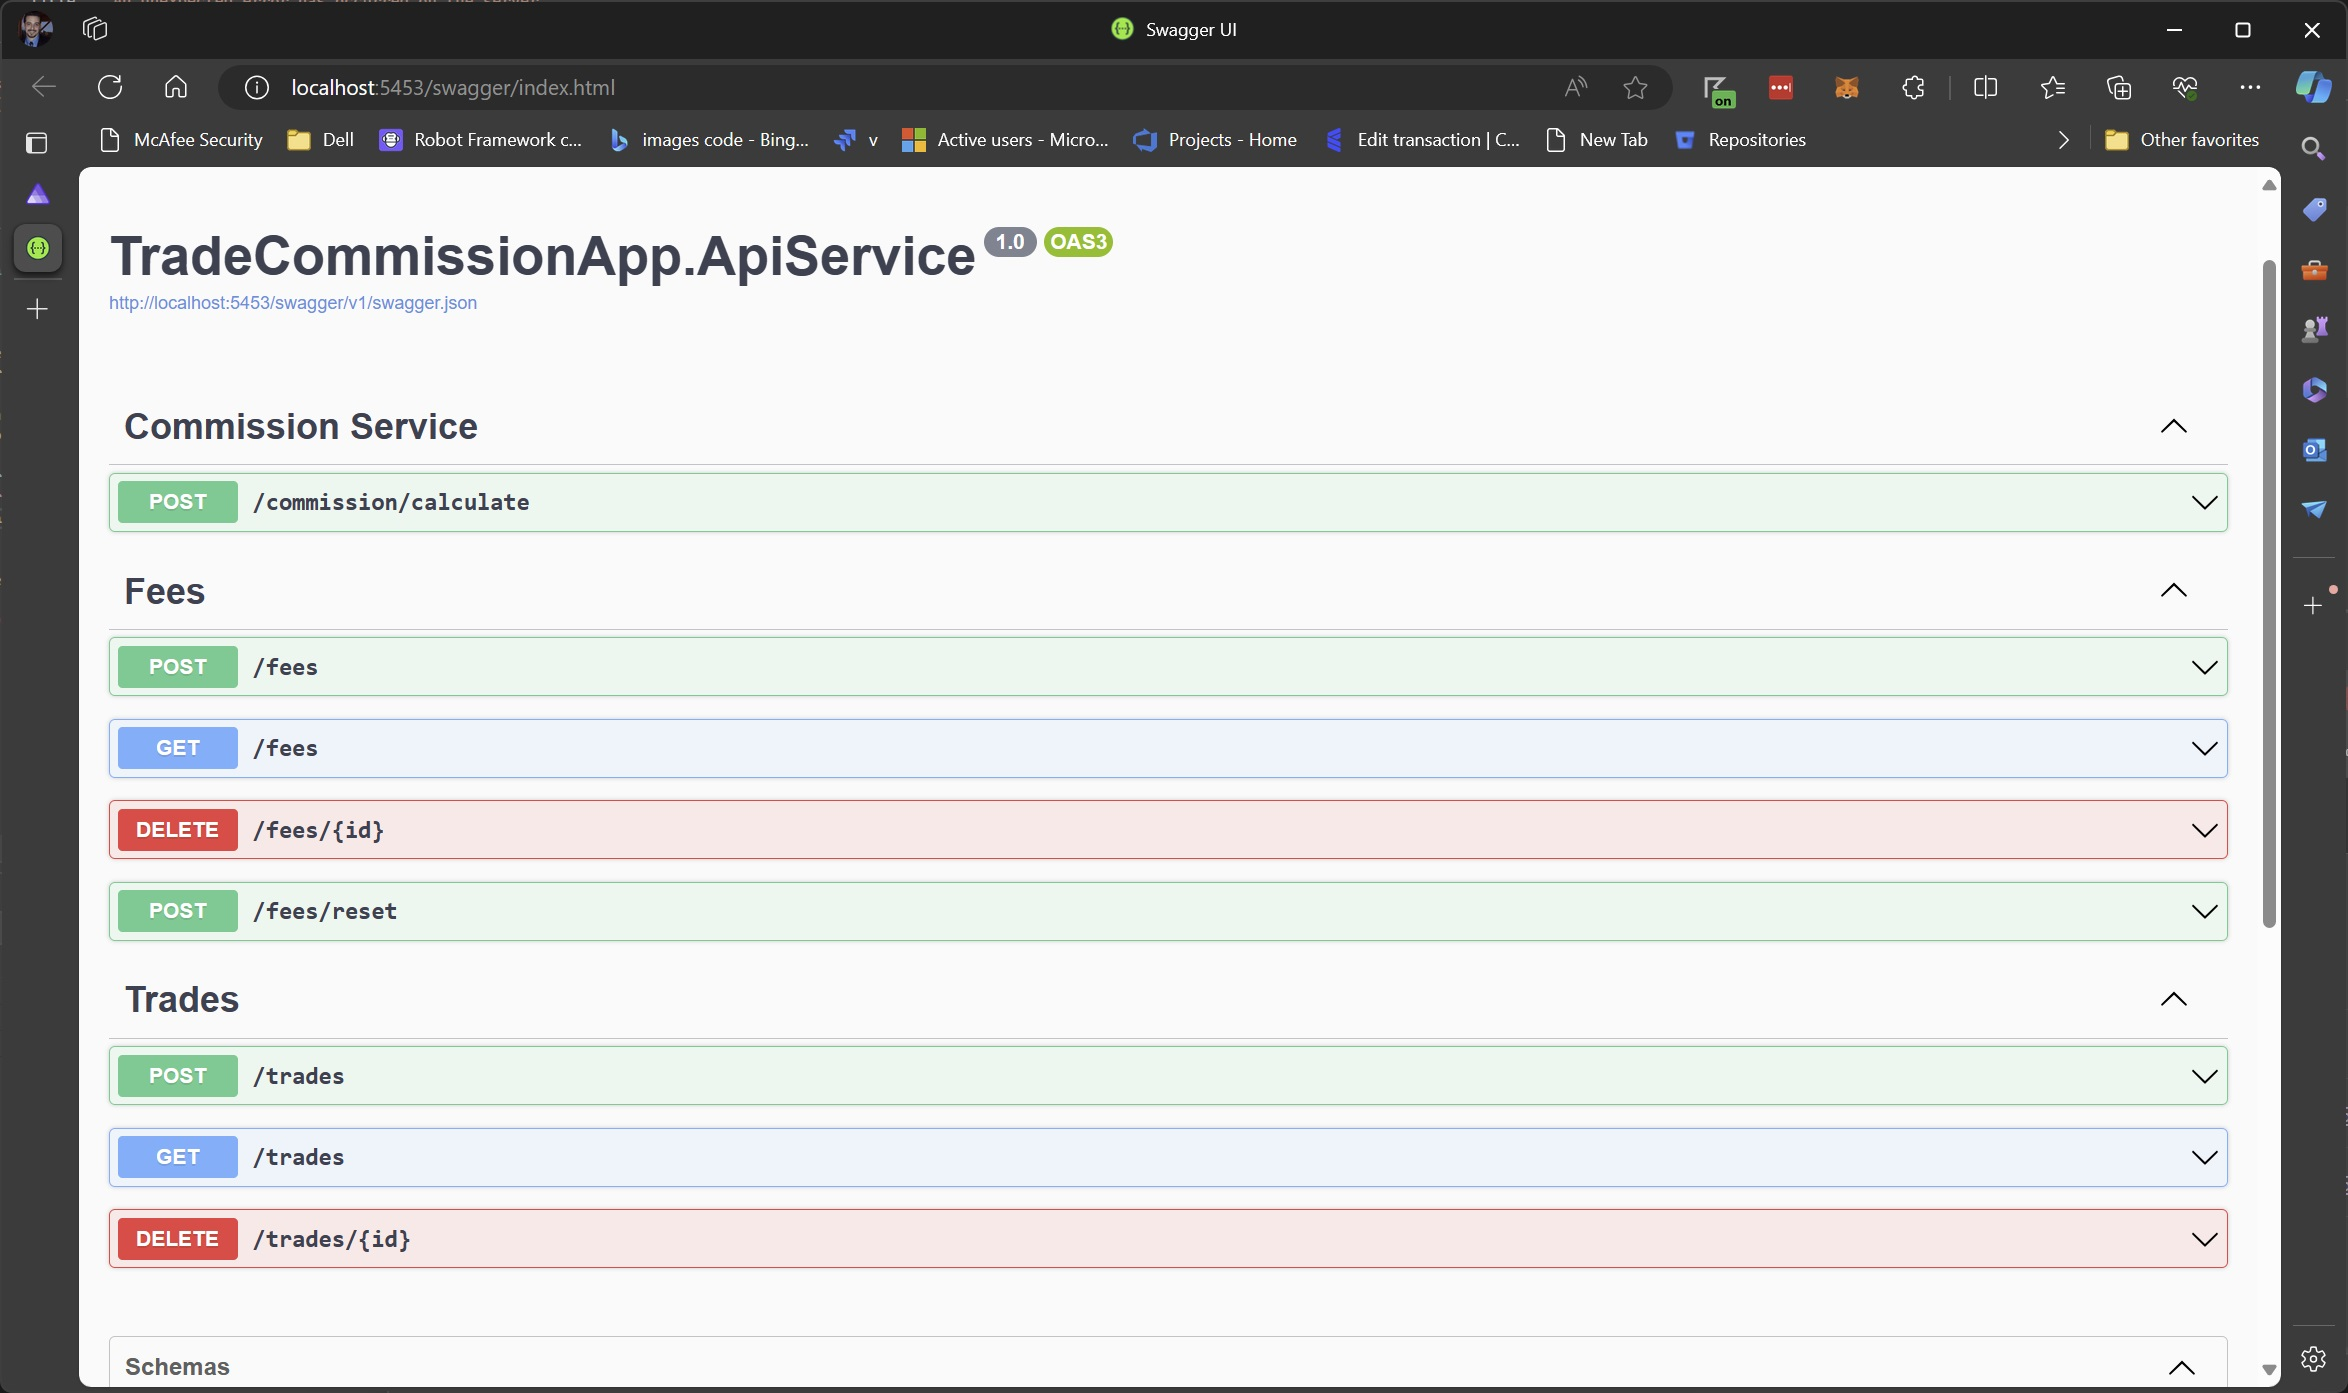
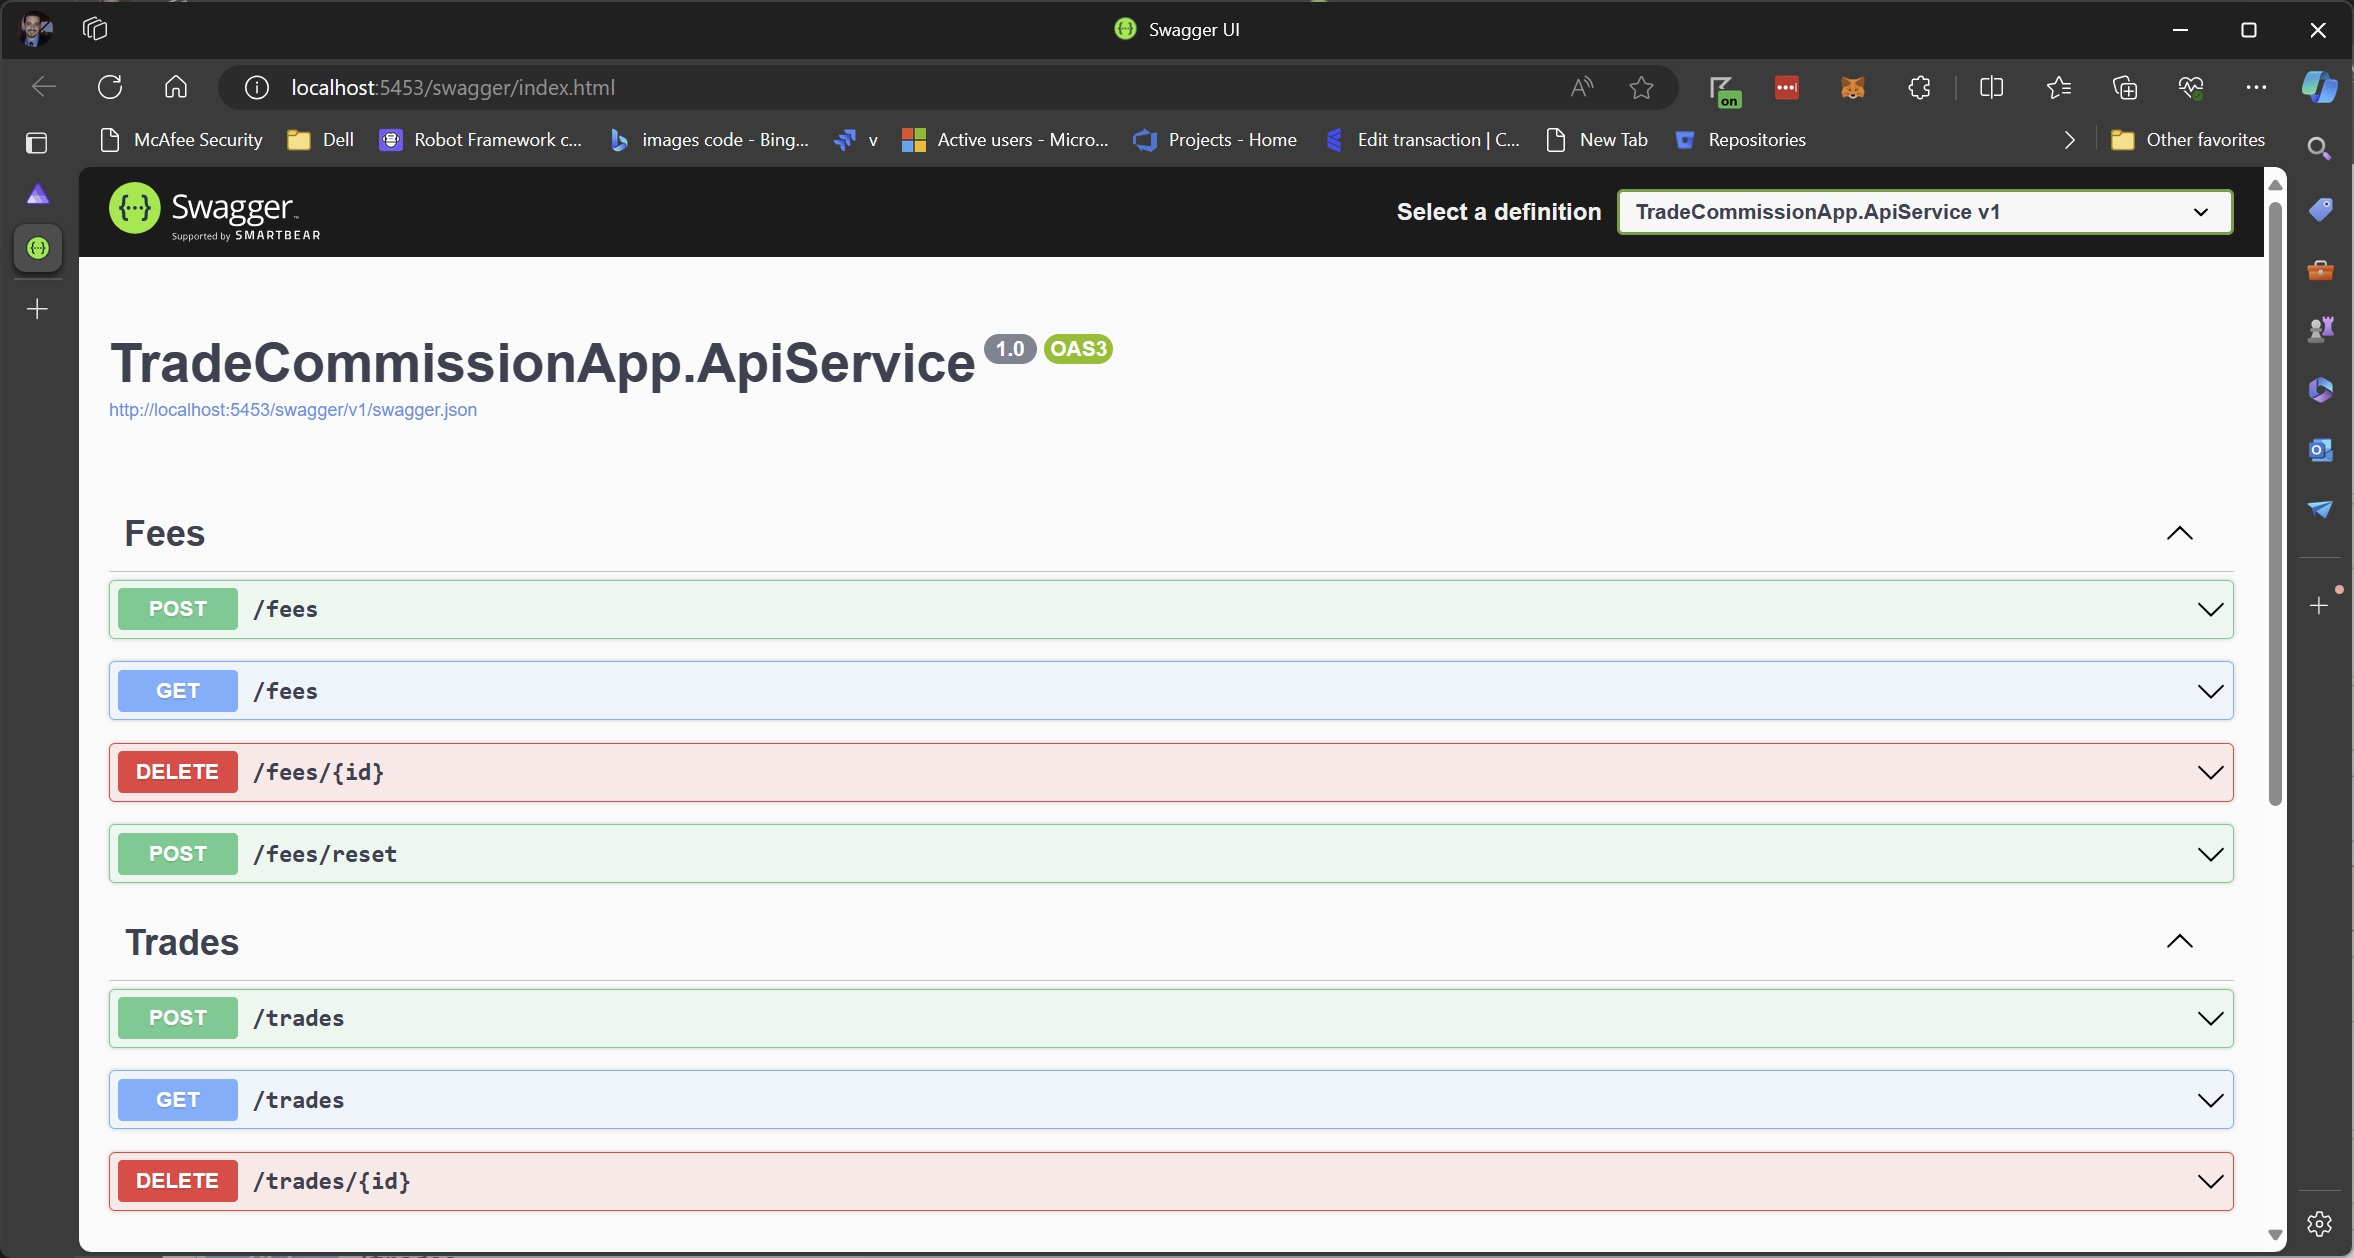
Web application update service references
fix: Use the new calculation service

Changed region(s): [[0.0, 0.0, 1.0, 1.0], [0.9327, 0.651, 0.9638, 0.682], [0.9327, 0.589, 0.9638, 0.62]]

diff --git a/TradeCommissionApp.Web/ApiServiceClient.cs b/TradeCommissionApp.Web/ApiServiceClient.cs
@@ -3,7 +3,7 @@ using TradeCommissionApiTypes;
 
 namespace TradeCommissionApp.Web;
 
-public class TradeCommissionApiClient(HttpClient httpClient)
+public class ApiServiceClient(HttpClient httpClient)
 {
     public async Task<Fee[]> GetFeesAsync()
     {
@@ -39,13 +39,4 @@ public class TradeCommissionApiClient(HttpClient httpClient)
     {
         await httpClient.PostAsJsonAsync("/trades", trade);
     }
-
-    public async Task<CalculationResultResponse?> CalculateCommissionAsync(Trade[] trades)
-    {
-        var request = new CalculateCommissionRequest(
-            trades.Select(t => new TradeRequest(t.SecurityType, t.TransactionType, t.Quantity, t.Price)).ToArray());
-
-        var response = await httpClient.PostAsJsonAsync("commission/calculate", request);
-        return await response.Content.ReadFromJsonAsync<CalculationResultResponse>();
-    }   
 }

diff --git a/TradeCommissionApp.AppHost/Program.cs b/TradeCommissionApp.AppHost/Program.cs
@@ -4,11 +4,13 @@ var cache = builder.AddRedis("cache");
 
 var apiService = builder.AddProject<Projects.TradeCommissionApp_ApiService>("apiservice");
 
-builder.AddProject<Projects.TradeCommissionApp_Web>("webfrontend")
-    .WithReference(cache)
+var calculationService = builder.AddProject<Projects.TradeCommissionApp_CalculationService>("calculationservice")
     .WithReference(apiService);
 
-builder.AddProject<Projects.TradeCommissionApp_CalculationService>("calculationservice")
-    .WithReference(apiService);
+builder.AddProject<Projects.TradeCommissionApp_Web>("webfrontend")
+    .WithReference(cache)
+    .WithReference(apiService)
+    .WithReference(calculationService);
+
 
 builder.Build().Run();

diff --git a/TradeCommissionApp.Web/TradeCommissionApiClient - Copy.cs b/TradeCommissionApp.Web/TradeCommissionApiClient - Copy.cs
@@ -1,0 +1,16 @@
+using Domain.Objects;
+using TradeCommissionApiTypes;
+
+namespace TradeCommissionApp.Web;
+
+public class CalculationServiceClient(HttpClient httpClient)
+{
+    public async Task<CalculationResultResponse?> CalculateCommissionAsync(Trade[] trades)
+    {
+        var request = new CalculateCommissionRequest(
+            trades.Select(t => new TradeRequest(t.SecurityType, t.TransactionType, t.Quantity, t.Price)).ToArray());
+
+        var response = await httpClient.PostAsJsonAsync("commission/calculate", request);
+        return await response.Content.ReadFromJsonAsync<CalculationResultResponse>();
+    }   
+}

diff --git a/TradeCommissionApp.Web/Program.cs b/TradeCommissionApp.Web/Program.cs
@@ -11,7 +11,9 @@ builder.AddRedisOutputCache("cache");
 builder.Services.AddRazorComponents()
     .AddInteractiveServerComponents();
 
-builder.Services.AddHttpClient<TradeCommissionApiClient>(client => client.BaseAddress = new("http://apiservice"));
+builder.Services.AddHttpClient<ApiServiceClient>(client => client.BaseAddress = new("http://apiservice"));
+builder.Services.AddHttpClient<CalculationServiceClient>(client => client.BaseAddress = new("http://calculationservice"));
+
 
 var app = builder.Build();
 

diff --git a/TradeCommissionApp.CalculationService/Program.cs b/TradeCommissionApp.CalculationService/Program.cs
@@ -28,7 +28,6 @@ builder.Services.AddControllers().AddJsonOptions(configure =>
 });
 
 builder.Services.AddHttpClient<IFeeRepository, FeeRepository>(client => client.BaseAddress = new("http://apiservice"));
-//builder.Services.AddScoped<IFeeRepository, FeeRepository>();
 builder.Services.AddScoped<CommissionCalculationService>();
 
 var app = builder.Build();

diff --git a/README.md b/README.md
@@ -17,8 +17,10 @@ This project is  a [.NET Aspire](https://learn.microsoft.com/en-us/dotnet/aspire
 ### Domain
 This library contains all the Entities, ValueObjects, and business logic needed to operate within the application domain.
 
-### CalculationService
-The service contains the application logic which processes Domain Objects to calculate the total commission. The service itself has no knowledge of how a commission is calculated, and simply sums the totals it's given. 
+### TradeCommission.CalculationService
+The service contains the application logic which processes Domain Objects to calculate the total commission. The service itself has no knowledge of how a commission is calculated, and simply sums the totals it's given.
+
+The calculation service may use a large number of threads (cpus) so it is maintained as a separate api service. It connects to the [TradeCommission.ApiService]TradeCommission.ApiService instead of directly to the database.
 
 ### TradeCommission.AppHost
 An application orchestrator with allows a view into the distributed services. A link to each endpoint is provided along with links to the logs and metrics of each service. This project is standard in .NET Aspire.
@@ -49,7 +51,7 @@ Running the full application in Visual Studio should open a new browser window p
 > Note: If the page does not display any services, stop and restart the app. There seems to be a bug outside of my code which I haven't yet investigated.
 
 #### ApiService
-Browsing to the **apiservice** endpoint will bring the developer to the Swagger page which can be used to send Api requests to the running instance.
+Browsing to the **apiservice** endpoint will bring the developer to the Swagger page which can be used to send Api requests to the running instance. A similar page appears for the **calculationservice** 
 
 ![ApiService](Documentation/Images/ApiService_Swagger_Screenshot.jpg)
 
